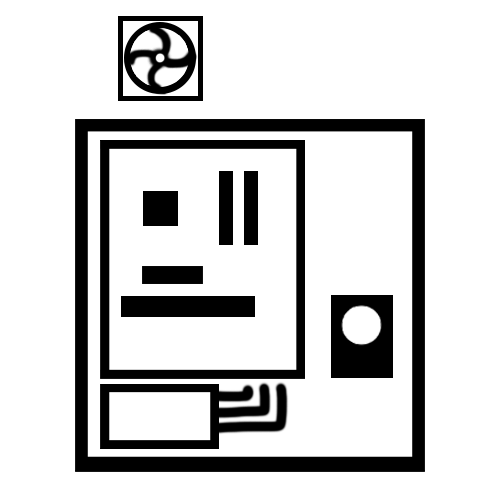
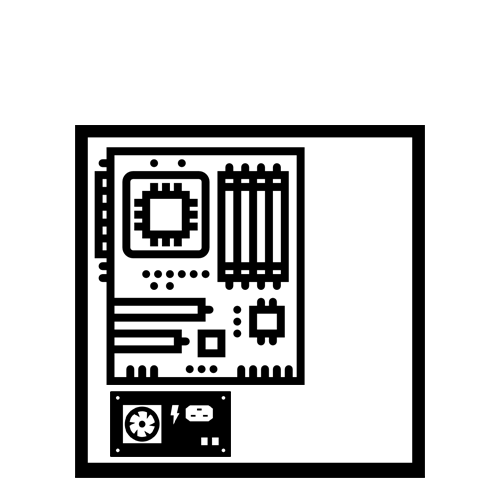
feat: Visualizaztion v2
- Updated images used in the feature.

Changed region(s): [[0.15, 0.24, 0.87, 0.96], [0.21, 0.03, 0.42, 0.21], [0.66, 0.57, 0.81, 0.78]]

diff --git a/spectify-frontend/src/app/(main)/build/page.tsx b/spectify-frontend/src/app/(main)/build/page.tsx
@@ -7,6 +7,7 @@ import Performance from '@/components/ui/buildPage-Component/build-performance';
 import Visualization from '@/components/ui/buildPage-Component/build-visualization';
 import Optimization from '@/components/ui/buildPage-Component/build-opti';
 import SaveBuildComponent from '@/components/main/build/saveBuild';
+import Image from 'next/image';
 
 export default function BuildPage() {
 
@@ -28,7 +29,11 @@ export default function BuildPage() {
 
 
                 <div className='bg-white shadow-xl box-content row-span-2'>
-
+                
+                    {/* <div className="relative text-center" style={{ width: '430px', height: '430px' }}>
+                        <Image src={"/images/vispng/main.png"} alt='' layout='fill' objectFit='contain'/>
+                    </div> */}
+                    
                     <Visualization selectedProducts={selectedProducts} />
 
                 </div>

diff --git a/spectify-frontend/src/components/ui/buildPage-Component/build-visualization.tsx b/spectify-frontend/src/components/ui/buildPage-Component/build-visualization.tsx
@@ -10,10 +10,10 @@ const productTypeToImageUrl: ProductImageMap = {
 
   CPU: '/images/vispng/CPU.png',
   GPU: '/images/vispng/GPU.png',
-  MB: '/images/vispng/MB.png',
+  MB: '/images/vispng/MB2.png',
   RAM: '/images/vispng/RAM.png',
   SSD: '/images/vispng/SSD.png',
-  PSU: '/images/vispng/PSU.png',
+  PSU: '/images/vispng/PSU2.png',
   Case: '/images/vispng/Case.png',
   Cooler: '/images/vispng/Cooler.png',
 
